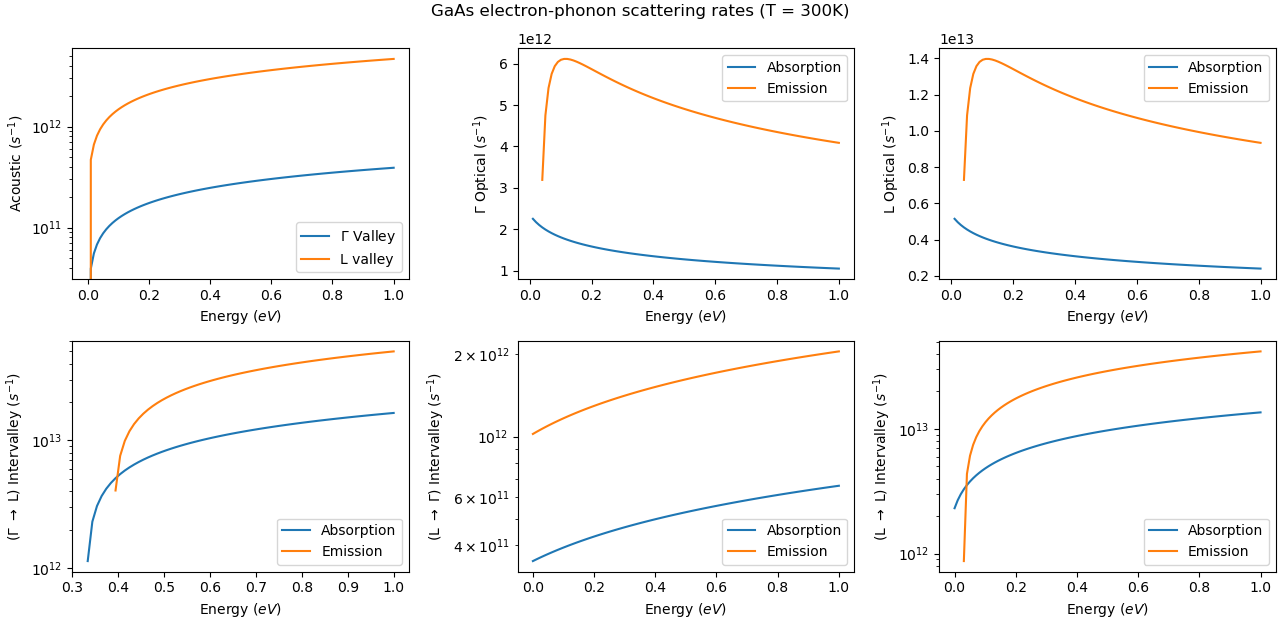
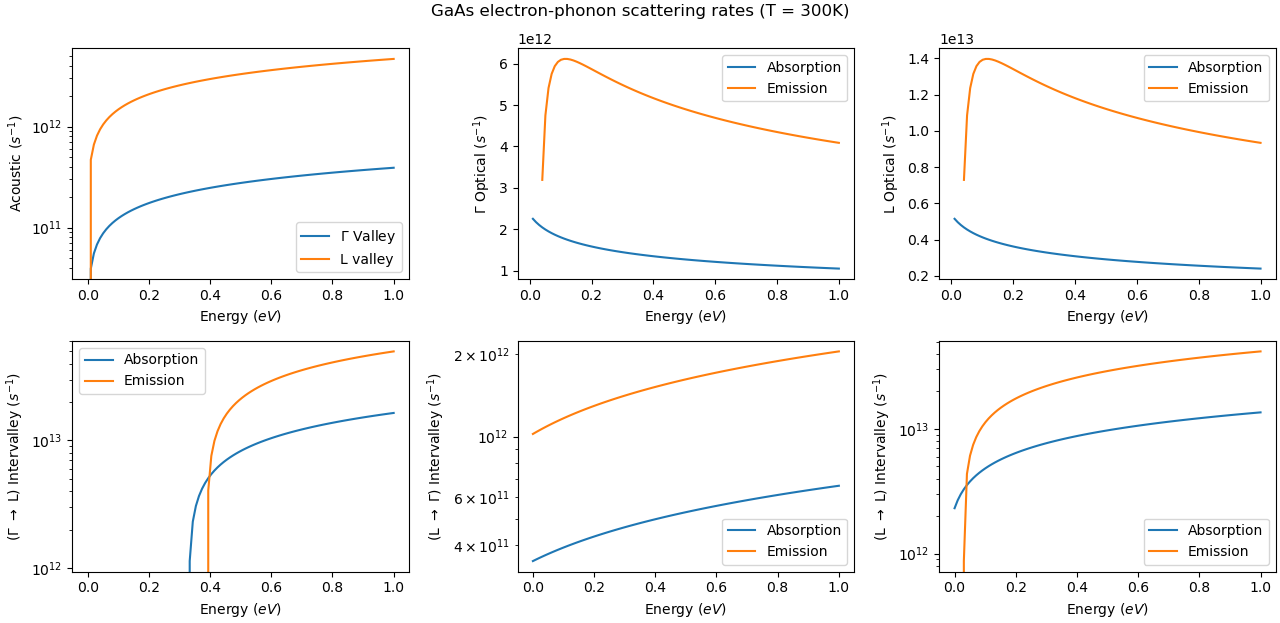
v1.1

diff --git a/physicsUtilities/materialScatteringRates.py b/physicsUtilities/materialScatteringRates.py
@@ -24,8 +24,12 @@
 #	SOFTWARE.
 #
 
-#!/usr/bin/env python 
+#!/usr/bin/env python
+import numpy as np
+
+# Import phonon scattering rates
 from .phononScatteringRates import phononScatteringRates
+from .phononScatteringRates import phononScatteringData
 
 # Plotting
 import matplotlib.pyplot as plt
@@ -40,7 +44,7 @@ class materialScatteringRates:
 		self.PSR = phononScatteringRates()
 
 		# Build scattering rates
-		self.scatteringRates = self.buildScatteringRates(energy, material)
+		self.buildScatteringRates(energy, material)
 
 		# Store energy vector and material (for plotting)
 		self.material = material
@@ -51,7 +55,7 @@ class materialScatteringRates:
 	def buildScatteringRates(self, energy, material):
 		
 		# Calculate rates
-		return {
+		self.scatteringRates = {
 
 			# Gamma valley
 
@@ -93,40 +97,39 @@ class materialScatteringRates:
 			},
 		}
 
+		# Sum scattering rates (Gamma)
+		self.scatteringRates["Gsum"] = phononScatteringData( (
+			self.getScatteringRate("Gac") + 
+			self.getScatteringRate("Gop", "Absorption") + self.getScatteringRate("Gop", "Emission") +
+			self.getScatteringRate("GtoL","Absorption") + self.getScatteringRate("GtoL","Emission")
+			) , None )
+
+		# Sum scattering rates (L)
+		self.scatteringRates["Lsum"] = phononScatteringData( (
+			self.getScatteringRate("Lac") + 
+			self.getScatteringRate("Lop", "Absorption") + self.getScatteringRate("Lop", "Emission") +
+			self.getScatteringRate("LtoG","Absorption") + self.getScatteringRate("LtoG","Emission") +
+			self.getScatteringRate("LtoL","Absorption") + self.getScatteringRate("LtoL","Emission")
+			) , None )
+
+
 	# Method to get scattering rate
 	def getScatteringRate(self, key, subkey = None):
 
-		# For acoustic phonons
-		if subkey is None:
-
-			return self.scatteringRates[key].rate
-
 		# General case
-		else:
+		if subkey is not None:
 
 			return self.scatteringRates[key][subkey].rate
 
-	# Method to return the sum of scattering rates for a given valley 
-	def sumSactteringRates(self, valley = "G"):
-
-		if valley in ["G", "Gamma"]:
-
-			return ( self.getScatteringRate("Gac") + 
-				self.getScatteringRate("Gop", "Absorption") + self.getScatteringRate("Gop", "Emission") +
-				self.getScatteringRate("GtoL","Absorption") + self.getScatteringRate("GtoL","Emission")
-			)
-
-		elif valley in ["L"]:
-		
-			return ( self.getScatteringRate("Gac") + 
-				self.getScatteringRate("Lop", "Absorption") + self.getScatteringRate("Lop", "Emission") +
-				self.getScatteringRate("LtoG","Absorption") + self.getScatteringRate("LtoG","Emission") +
-				self.getScatteringRate("LtoL","Absorption") + self.getScatteringRate("LtoL","Emission")
-			)
-
+		# For acoustic phonons and sum rates
 		else:
-			
-			return None	
+
+			return self.scatteringRates[key].rate
+
+	# Method to transform zero scattering rates into nan
+	def zeroAsNan(self, rate):
+
+		return [ np.nan if _ == 0 else _ for _ in rate ] 
 
 
 	# Method to show all scattering rates
@@ -146,16 +149,16 @@ class materialScatteringRates:
 
 		# Optical Phonons (Gamma)
 		ax01 = fig.add_subplot(gs[0, 1])
-		h0,  = ax01.plot(self.energy, self.getScatteringRate("Gop", "Absorption") )
-		h1,  = ax01.plot(self.energy, self.getScatteringRate("Gop", "Emission") )
+		h0,  = ax01.plot(self.energy, self.zeroAsNan( self.getScatteringRate("Gop", "Absorption") ) )
+		h1,  = ax01.plot(self.energy, self.zeroAsNan( self.getScatteringRate("Gop", "Emission") ) )
 		ax01.set_xlabel("Energy $(eV)$")
 		ax01.set_ylabel("$\Gamma$ Optical $(s^{-1})$")
 		ax01.legend([h0,h1],["Absorption", "Emission"])
 
 		# Optical Phonons (L)
 		ax02 = fig.add_subplot(gs[0, 2])
-		h0,  = ax02.plot(self.energy, self.getScatteringRate("Lop", "Absorption") )
-		h1,  = ax02.plot(self.energy, self.getScatteringRate("Lop", "Emission") )
+		h0,  = ax02.plot(self.energy, self.zeroAsNan( self.getScatteringRate("Lop", "Absorption") ) )
+		h1,  = ax02.plot(self.energy, self.zeroAsNan( self.getScatteringRate("Lop", "Emission") ) )
 		ax02.set_xlabel("Energy $(eV)$")
 		ax02.set_ylabel("L Optical $(s^{-1})$")
 		ax02.legend([h0,h1],["Absorption", "Emission"])
@@ -187,4 +190,15 @@ class materialScatteringRates:
 
 		# Add a tile and show plot
 		fig.suptitle("%s electron-phonon scattering rates (T = %sK)"%(self.material.name, self.material.T))
+
+		# Plot sum of scattering rates
+		fig = plt.figure()
+		ax0 = fig.add_subplot(111)
+		h0, = ax0.semilogy( self.energy, self.zeroAsNan( self.getScatteringRate("Gsum") ) )
+		h1, = ax0.semilogy( self.energy, self.zeroAsNan( self.getScatteringRate("Lsum") ) )
+		ax0.set_xlabel("Energy $(eV)$")
+		ax0.set_ylabel("$\Sigma \Gamma_i$ $(s^{-1})$")
+		ax0.set_title("Total Scattering Rate")
+		ax0.legend([h0,h1],["$\Gamma$ Valley","L valley"])
+
 		plt.show()

diff --git a/monteCarlo/MC_original.py b/monteCarlo/MC_original.py
@@ -172,7 +172,6 @@ class MonteCarlo(object):
 		self.FIELD = _FIELD
 		self.counter = 0
 
-
 		# Initialize the random number generator
 		self._RANDOM_ = r.SystemRandom()
 
@@ -220,80 +219,7 @@ class MonteCarlo(object):
 		self.LSS_a = L.SS_a/self.GAMMA_L_max
 		self.LSS = self.GAMMA_Lss
 
-		# Define the scattering matricies. These contains the probabilities
-		# of all the various scattering events at each energy for both valleys
-		# Given the energy, and the valley one is living in, one will generate
-		# A scattering event. Each COLUMN represents an energy range and is
-		# accessed via [:,i]. The sum of each column is unity.
-		self.G_SCATTERING = np.asarray( [
-			self.GSS, 
-			self.GAC,
-			self.GOP_e, 
-			self.GOP_a, 
-			self.GCS_e, 
-			self.GCS_a
-		])
 
-		self.L_SCATTERING = np.asarray( [
-			self.LSS,
-			self.LOP_e,
-			self.LSC_e,
-			self.LSS_e,
-			self.LAC,
-			self.LOP_a,
-			self.LSC_a,
-			self.LSS_a
-		])
-
-		# Component vectors. This tells which way to calculate new components
-		# given some scattering mechanism.
-		self.G_COMP = np.asarray([
-			"_Self", 
-			"__Iso",
-			"anIso", 
-			"anIso",
-			"__Iso", 
-			"__Iso"
-		])
-		
-		self.L_COMP = np.asarray([
-			"_Self",
-			"anIso",
-			"__Iso",
-			"__Iso",
-			"__Iso",
-			"anIso",
-			"__Iso",
-			"__Iso"
-		])
-
-
-		# An increment/decrement vector for the energy of the final state
-		# after scattering.
-		self.G_ENERGY = np.asarray([
-			0.0, 
-			0.0,
-			-G.wOP*U.hbar, 
-			G.wOP*U.hbar,
-			-G.wE*U.hbar-G.D, 
-			G.wE*U.hbar-G.D
-		])
-
-		self.L_ENERGY = np.asarray([
-			0.0, 
-			0.0,
-			-G.wOP*U.hbar, 
-			G.wOP*U.hbar,
-			-G.wE*U.hbar+G.D, 
-			G.wE*U.hbar+G.D,
-			-G.wE*U.hbar, 
-			G.wE*U.hbar
-		])
-
-		# Valley switching vectors. These contains the final state
-		# of each scattering event (valley).
-		self.G_VALLEY = np.asarray(["G","G","G","G","L","L"])
-		self.L_VALLEY = np.asarray(["L","L","L","L","G","G","L","L"])
 
 		# Initialize the electron object. This will set the initial energy E,
 		# valley "G", k-vector and its components, and time 0. The calculation

diff --git a/physicsUtilities/phononScatteringRates.py b/physicsUtilities/phononScatteringRates.py
@@ -41,10 +41,10 @@ class phononScatteringData:
 		# Scattering metadata for phonon
 		#
 		#	 meta = {
-		#		"type"	= ["acoustic", "optical", "intervalley"],
+		#		"type"	= ["acoustic", "optical", "intervalley"]
 		#		"sym"	= ["isotropic", "anisotropic"
 		#		"mode"	= ["Absorption, Emission", None] 
-		#		"dE" 	= associated change in energy>,
+		#		"dE" 	= associated change in energy
 		#		"Vi" 	= valley before scattring
 		#		"Vf"	= valley after scattring
 		# 	}
@@ -136,10 +136,10 @@ class phononScatteringRates:
 
 				GAMMA.append( F * np.log( delta ) / np.sqrt(_Ei) )
 
-			# Otherwise append np.nan
+			# Otherwise append 0.0
 			else:
 
-				GAMMA.append( np.nan )
+				GAMMA.append( 0.0 )
 
 		# Phonon metadata
 		META = {
@@ -191,7 +191,7 @@ class phononScatteringRates:
 		for _Ef in Ef: 
 
 			# Check final energy Ef > 0.0 (transition allowed)
-			GAMMA.append( (a / b) * np.sqrt(_Ef) if _Ef > 0.0 else np.nan )
+			GAMMA.append( (a / b) * np.sqrt(_Ef) if _Ef > 0.0 else 0.0 )
 
 		# Prepare metadata
 		META = {
@@ -243,7 +243,7 @@ class phononScatteringRates:
 		for _Ef in Ef: 
 
 			# Check final energy Ef > 0.0 (transition allowed)
-			GAMMA.append( (a / b) * np.sqrt(_Ef) if _Ef > 0.0 else np.nan )
+			GAMMA.append( (a / b) * np.sqrt(_Ef) if _Ef > 0.0 else 0.0 )
 
 		# Prepare metadata
 		META = {
@@ -295,7 +295,7 @@ class phononScatteringRates:
 		for _Ef in Ef: 
 
 			# Check final energy Ef > 0.0 (transition allowed)
-			GAMMA.append( (a / b) * np.sqrt(_Ef) if _Ef > 0.0 else np.nan )
+			GAMMA.append( (a / b) * np.sqrt(_Ef) if _Ef > 0.0 else 0.0 )
 
 		# Prepare metadata
 		META = {
